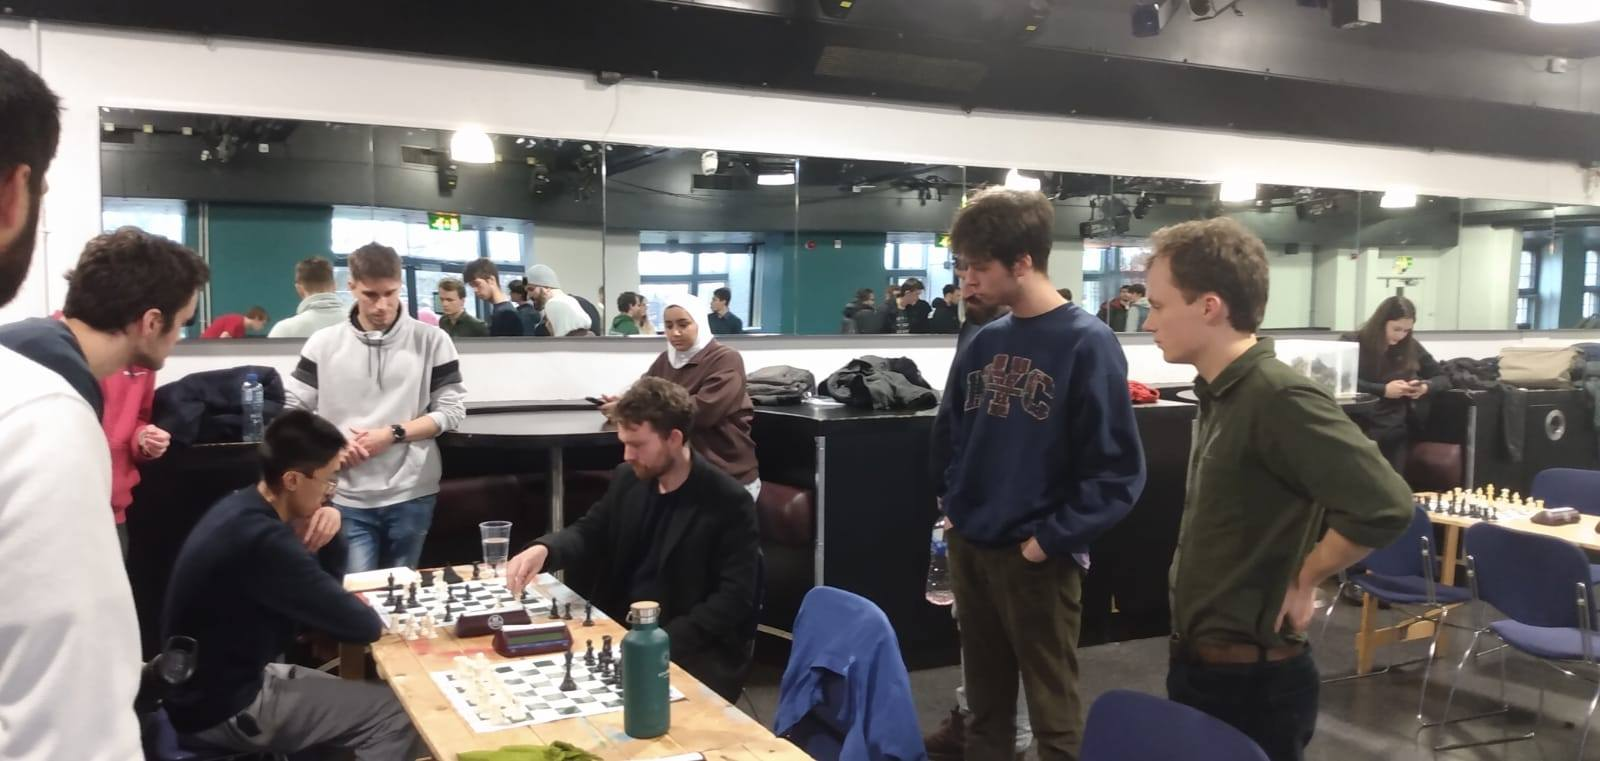
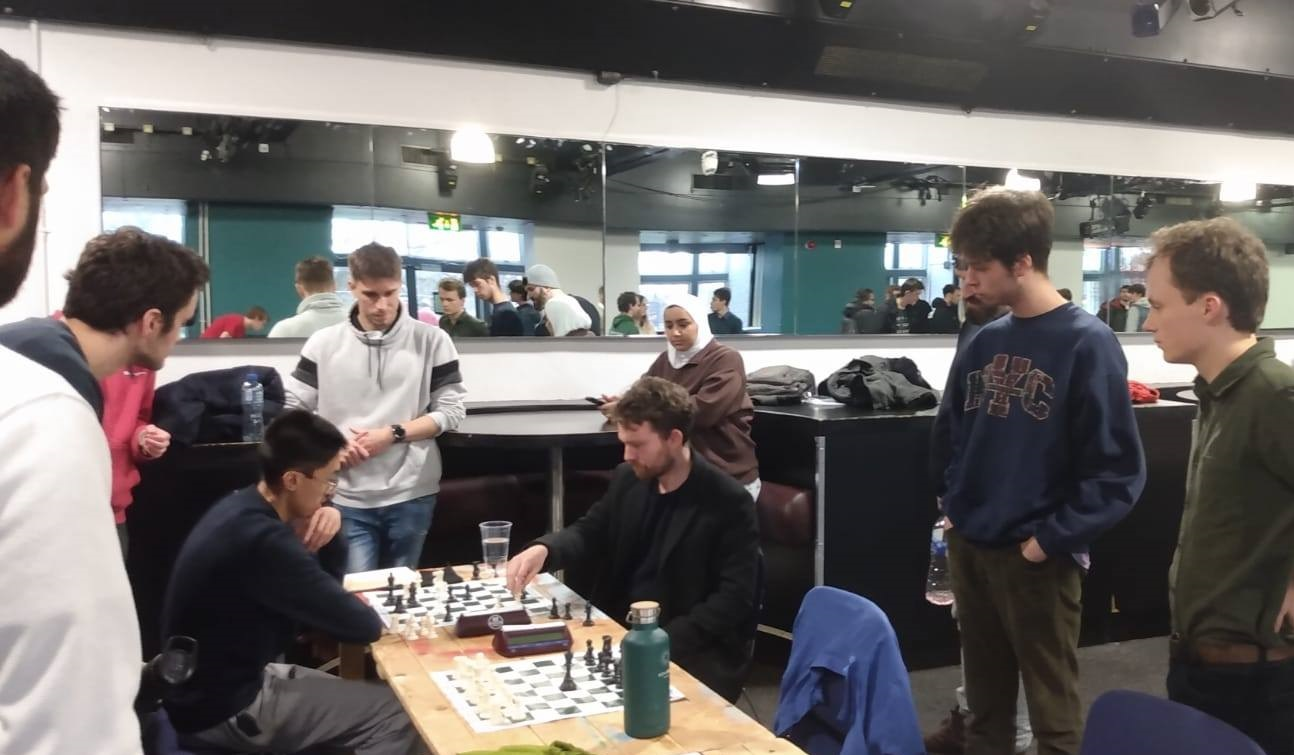
Modified blog 3 content

diff --git a/src/blogs/assets/3/content.js b/src/blogs/assets/3/content.js
@@ -56,6 +56,7 @@ const Content = (
             The games were always so stupid after a few drinks, but it got to the point where I was sobering up, the sun was coming back up and we were playing decent chess again.
         </p>
         <BlogImage blogId={3} imgName="su.jpg" imgAlt="" maxWidth={"500px"} imgCaption="Chess in front of Sheffield SU, June 2022. Don't have any pictures from 2021, so imagine this with more people!"/>
+        <BlogImage blogId={3} imgName="traf.jpg" imgAlt="" maxWidth={"500px"} imgCaption="ChessFest at Trafalgar Square"/>
         <p>
             My third year came around in September 2021 and was now part of the University Chess Society Committee as Team Captain. The first chess meetup was so ridiculous. We expected a huge 
             turnout from the new mailing list and bought loads of sets in anticipation. It still wasn't enough. The room was packed and we were scrambling for spare chess sets and seats. 
@@ -78,7 +79,7 @@ const Content = (
             walking around the room rather than thinking about the position.
         </p>
         <BlogImage blogId={3} imgName="b_team.jpg" imgAlt="" imgCaption="Our B Team (who won their division) vs Woodseats"/>
-        <BlogImage blogId={3} imgName="bham.jpg" imgAlt="" imgCaption="Friendly University Rapid Tournament in Birmingham."/>
+        <BlogImage blogId={3} imgName="bham2.jpg" imgAlt="" imgCaption="Friendly University Rapid Tournament in Birmingham."/>
 
         <p>
             Chess at university has been a good experience. I've met some good friends through the game and a few things about myself too regarding
